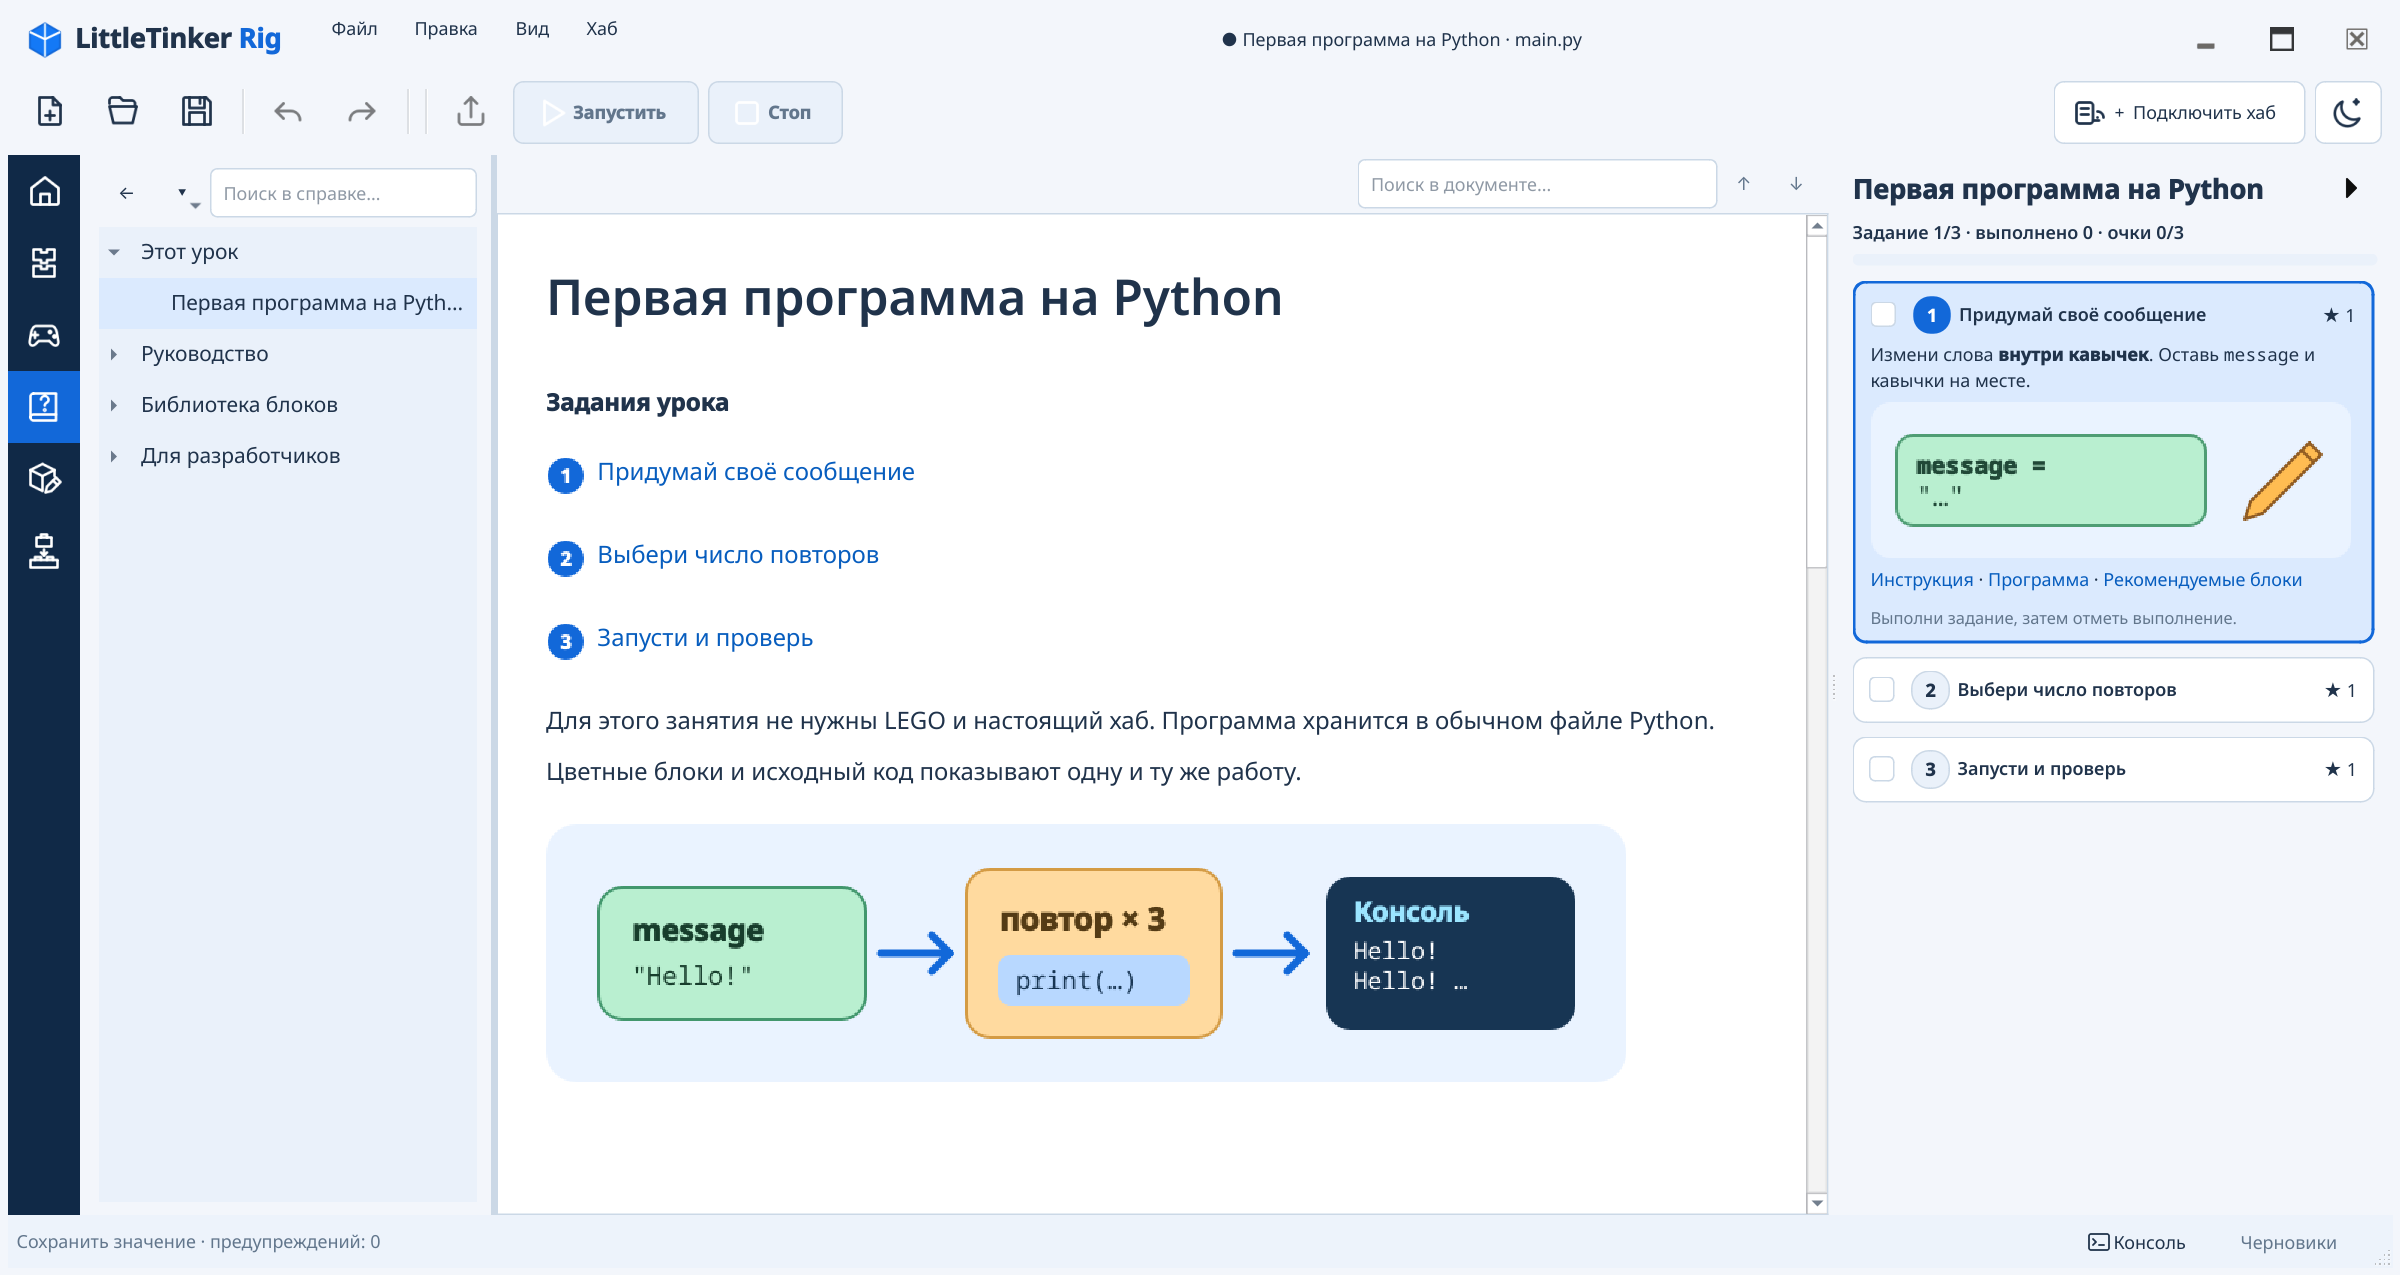
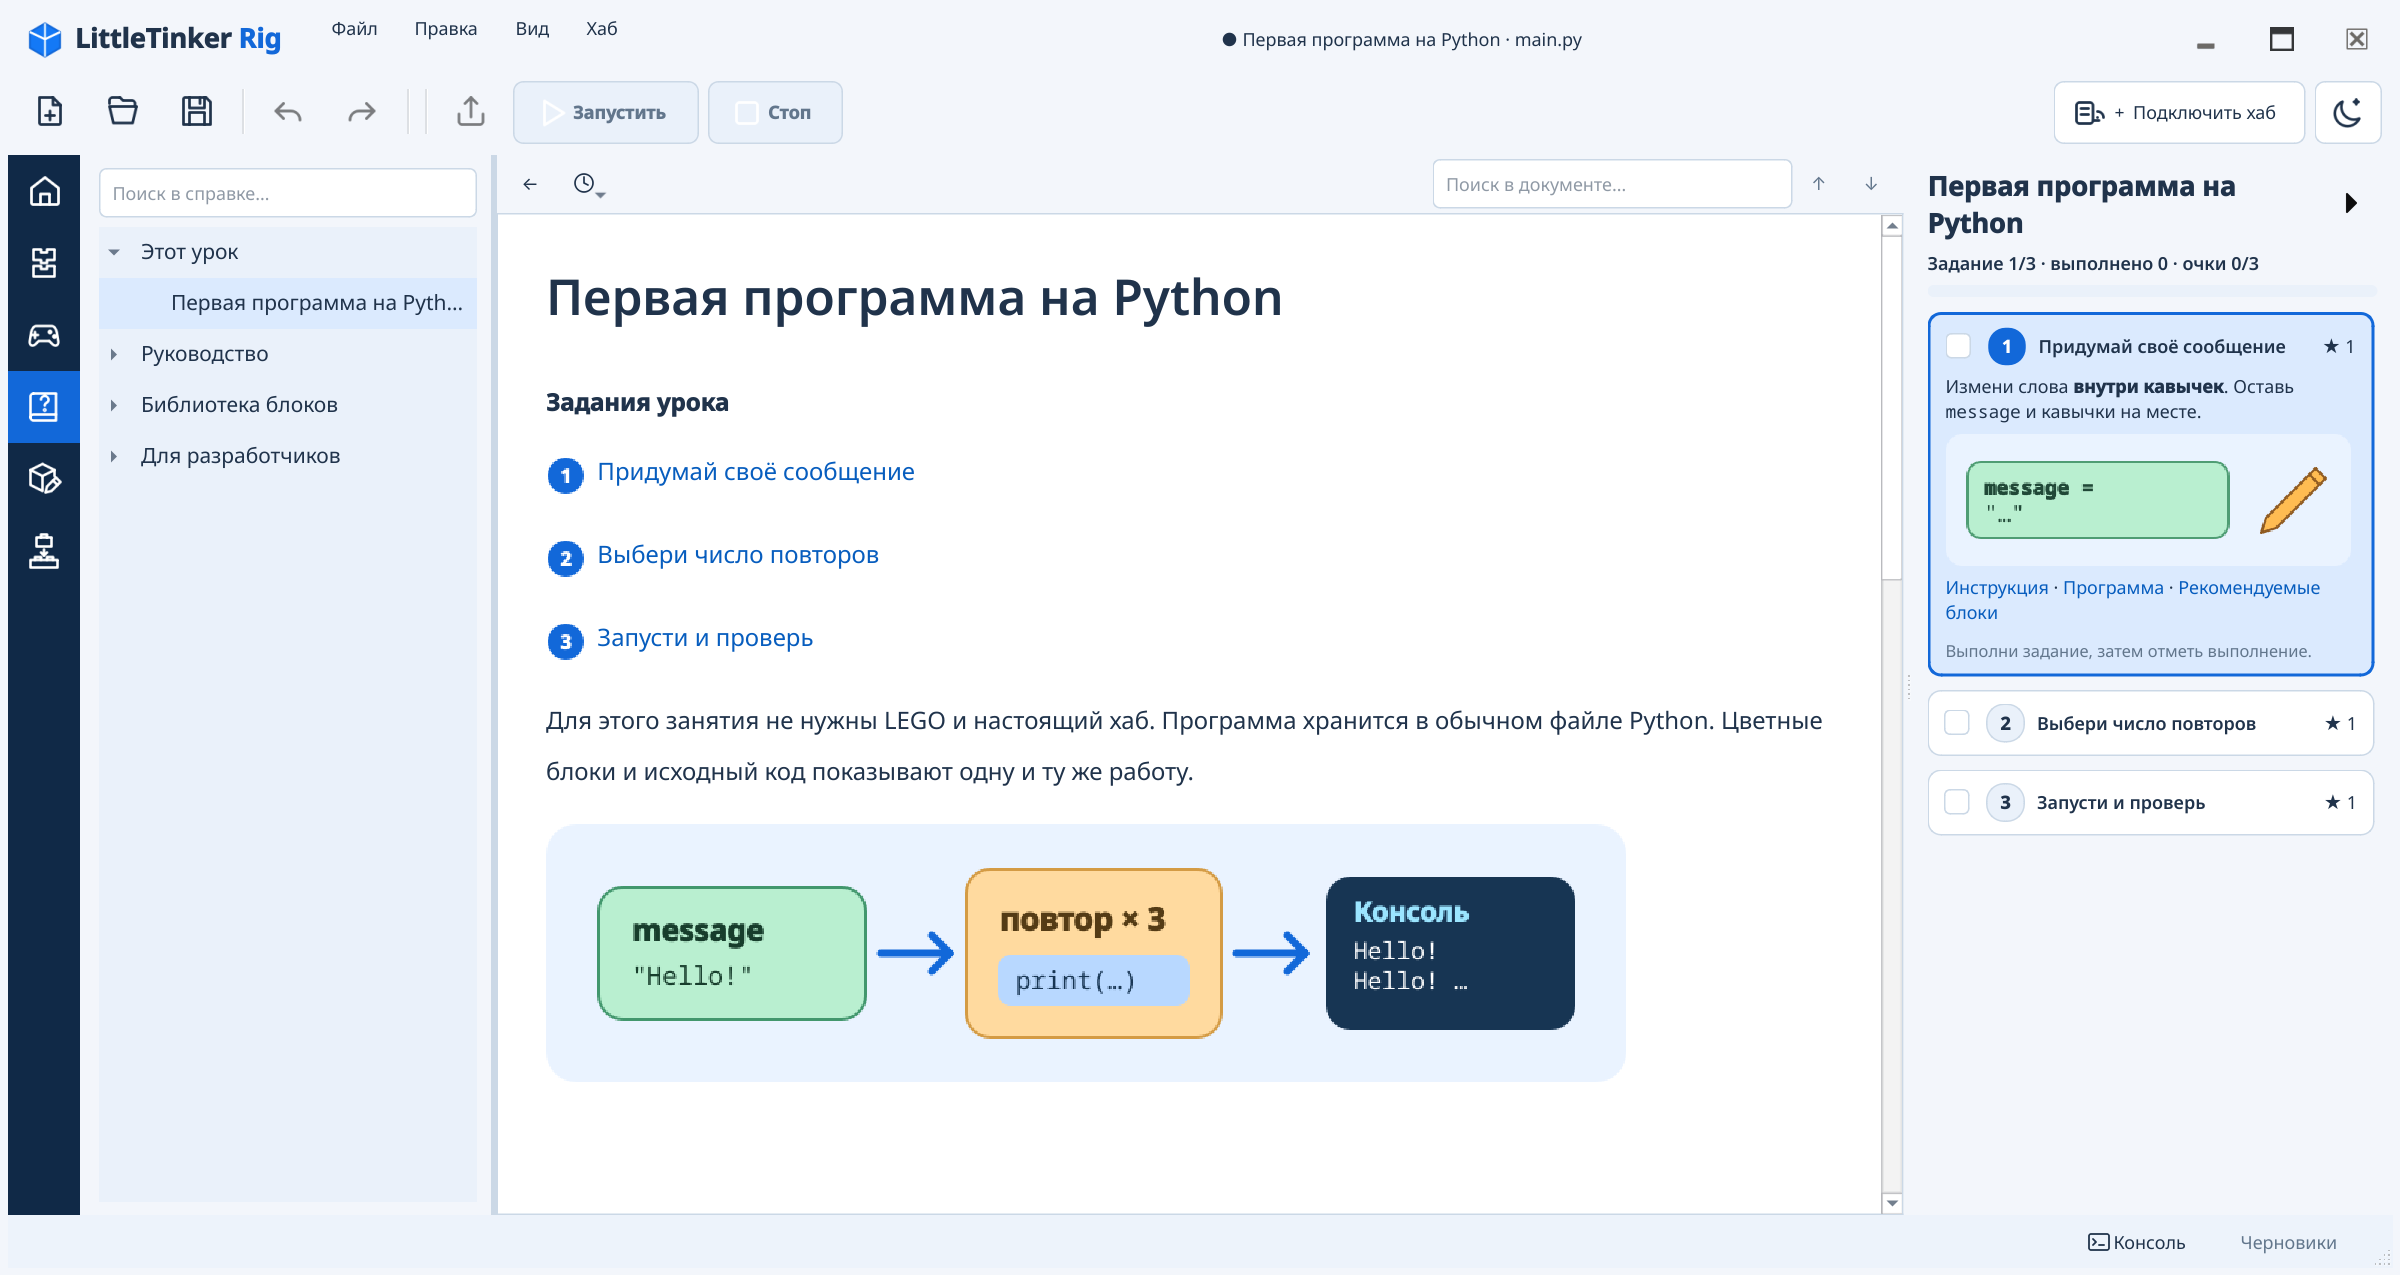
Clarify Help recent-pages control

diff --git a/little_tinker_rig/qt/help.py b/little_tinker_rig/qt/help.py
@@ -44,7 +44,7 @@ from little_tinker_rig.i18n import DEFAULT_LANGUAGE, LANGUAGES, N_, language, tr
 
 from .library import LEVEL_TITLES, group_title, snippet_title
 from .markdown import fit_images
-from .theme import colors, recolor_document_links
+from .theme import colors, recolor_document_links, svg_icon
 
 GUIDE_ORDER = (
     "index.md",
@@ -389,7 +389,6 @@ class HelpPage(QWidget):
         self.back_button.setText("←")
         self.back_button.clicked.connect(self.back)
         self.recent_button = QToolButton()
-        self.recent_button.setText("▾")
         self.recent_menu = QMenu(self.recent_button)
         self.recent_button.setMenu(self.recent_menu)
         self.recent_button.setPopupMode(QToolButton.ToolButtonPopupMode.InstantPopup)
@@ -469,6 +468,7 @@ class HelpPage(QWidget):
 
     def apply_theme(self):
         c = colors()
+        self.recent_button.setIcon(svg_icon("recent"))
         self.tree.setStyleSheet(
             f"QTreeWidget {{ border: 0; background: {c['raised']}; "
             f"color: {c['text']}; font-size: 14px; }}"
